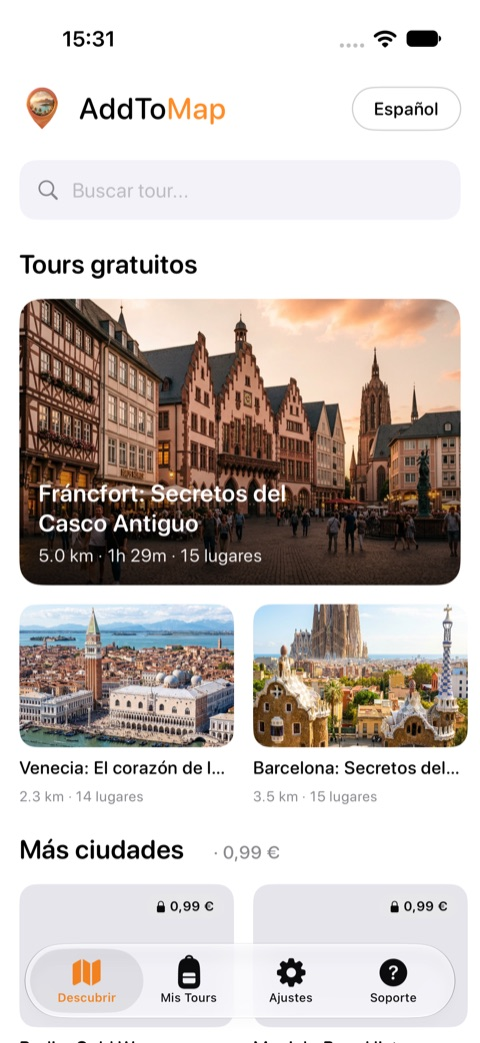
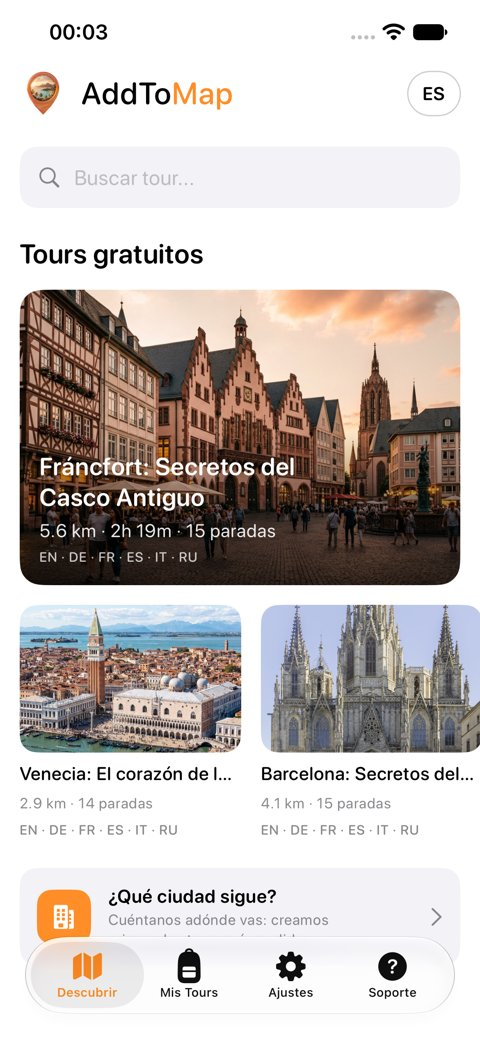
Per-tour pages /t/<slug> (OG previews, app hand-off), ?tour= deep link, honest pricing copy, real tour numbers, Cathedral cover, fresh localized screenshots, Impressum, sitemap/robots

diff --git a/index.html b/index.html
@@ -4,12 +4,12 @@
 <meta charset="UTF-8">
 <meta name="viewport" content="width=device-width, initial-scale=1">
 <title>AddToMap — Offline Audio Walking Tours</title>
-<meta name="description" content="Self-guided offline audio walking tours. Pick a city, follow the route on the map, and hear its stories as you walk. From 0.99 €, no subscription.">
+<meta name="description" content="Self-guided offline audio walking tours. Pick a city, follow the route on the map, and hear its stories as you walk. Free tours to start, more cities as one-time purchases, no subscription.">
 <meta property="og:title" content="AddToMap — Offline Audio Walking Tours">
 <meta property="og:description" content="Explore cities at your own pace with self-guided audio tours that work fully offline.">
 <meta property="og:image" content="https://addtomap.co/img/frankfurt.jpg">
 <meta property="og:type" content="website">
-<meta name="build" content="20261011161527"><!-- bumped by stamp.sh on every deploy -->
+<meta name="build" content="20261012220937"><!-- bumped by stamp.sh on every deploy -->
 <meta http-equiv="Cache-Control" content="no-cache">
 <style>
   :root{ --o:#F2770A; --ink:#15110d; --muted:#6b625a; --bg:#fff; --soft:#faf6f1; }
@@ -80,6 +80,7 @@
   footer .wrap{display:flex;flex-wrap:wrap;gap:16px;justify-content:space-between;align-items:center}
   footer a{color:var(--muted);margin-right:18px;font-weight:600}
   footer a:hover{color:var(--ink)}
+  .card.linked{outline:3px solid var(--o);outline-offset:3px;box-shadow:0 10px 30px #f2770a33}
 </style>
 </head>
 <body>
@@ -91,6 +92,7 @@
       <a href="#screens" data-i18n="nav_screens">In action</a>
       <a href="#why" data-i18n="nav_why">Why</a>
       <a href="/privacy.html" data-i18n="nav_privacy">Privacy</a>
+    <a href="/impressum.html">Impressum</a>
       <a class="supportmail" href="mailto:support@addtomap.co" data-i18n="nav_support">Support</a>
     </span>
     <select class="langsel" id="lang" onchange="setLang(this.value)" aria-label="Language">
@@ -103,7 +105,7 @@
 
 <div class="hero"><div class="wrap">
   <h1 data-i18n="hero_h1">Walk the city, hear its stories</h1>
-  <p data-i18n="hero_p">Pick a city, follow the route on the map, and hear its stories as you walk — fully offline. Lots of tours are free; others from 0.99 €, no subscription.</p>
+  <p data-i18n="hero_p">Pick a city, follow the route on the map, and hear its stories as you walk — fully offline. Free tours to start; more cities as one-time purchases, no subscription.</p>
   <a class="badge" href="#tours"><span>🎧</span><span><small data-i18n="badge_small">Soon on the</small>App Store</span></a>
   <div class="note" data-i18n="note">iPhone · works offline · 6 languages</div>
   <div class="herophones">
@@ -124,9 +126,9 @@
     </span>
   </div>
   <div class="tours">
-    <div class="card"><img src="img/frankfurt.jpg" alt="Frankfurt"><div class="b"><h3>Frankfurt: Old Town Secrets</h3><div class="meta">5.0 km · 15 <span data-i18n="stops">stops</span></div><div class="cardfoot"><span class="free" data-i18n="free_badge">FREE</span><button class="pvbtn" data-slug="frankfurt" onclick="togglePreview(this)"><span class="ic">▶</span><span class="lbl" data-i18n="preview_play">Preview</span></button></div></div></div>
-    <div class="card"><img src="img/venice.jpg" alt="Venice"><div class="b"><h3>Venice: Heart of the Serene Republic</h3><div class="meta">2.3 km · 14 <span data-i18n="stops">stops</span></div><div class="cardfoot"><span class="free" data-i18n="free_badge">FREE</span><button class="pvbtn" data-slug="venice-serene-republic" onclick="togglePreview(this)"><span class="ic">▶</span><span class="lbl" data-i18n="preview_play">Preview</span></button></div></div></div>
-    <div class="card"><img src="img/barcelona.jpg" alt="Barcelona"><div class="b"><h3>Barcelona: Gothic Quarter &amp; El Born</h3><div class="meta">3.5 km · 15 <span data-i18n="stops">stops</span></div><div class="cardfoot"><span class="free" data-i18n="free_badge">FREE</span><button class="pvbtn" data-slug="barcelona-gothic-quarter-el-born" onclick="togglePreview(this)"><span class="ic">▶</span><span class="lbl" data-i18n="preview_play">Preview</span></button></div></div></div>
+    <div class="card" id="tour-frankfurt" data-slug="frankfurt"><img src="img/frankfurt.jpg" alt="Frankfurt"><div class="b"><h3><a href="/t/frankfurt/">Frankfurt: Old Town Secrets</a></h3><div class="meta">5.6 km · 15 <span data-i18n="stops">stops</span></div><div class="cardfoot"><span class="free" data-i18n="free_badge">FREE</span><button class="pvbtn" data-slug="frankfurt" onclick="togglePreview(this)"><span class="ic">▶</span><span class="lbl" data-i18n="preview_play">Preview</span></button></div></div></div>
+    <div class="card" id="tour-venice-serene-republic" data-slug="venice-serene-republic"><img src="img/venice.jpg" alt="Venice"><div class="b"><h3><a href="/t/venice-serene-republic/">Venice: The Heart of the Serene Republic</a></h3><div class="meta">2.9 km · 14 <span data-i18n="stops">stops</span></div><div class="cardfoot"><span class="free" data-i18n="free_badge">FREE</span><button class="pvbtn" data-slug="venice-serene-republic" onclick="togglePreview(this)"><span class="ic">▶</span><span class="lbl" data-i18n="preview_play">Preview</span></button></div></div></div>
+    <div class="card" id="tour-barcelona-gothic-quarter-el-born" data-slug="barcelona-gothic-quarter-el-born"><img src="img/barcelona.jpg" alt="Barcelona"><div class="b"><h3><a href="/t/barcelona-gothic-quarter-el-born/">Barcelona: Secrets of the Gothic Quarter &amp; El Born</a></h3><div class="meta">4.1 km · 15 <span data-i18n="stops">stops</span></div><div class="cardfoot"><span class="free" data-i18n="free_badge">FREE</span><button class="pvbtn" data-slug="barcelona-gothic-quarter-el-born" onclick="togglePreview(this)"><span class="ic">▶</span><span class="lbl" data-i18n="preview_play">Preview</span></button></div></div></div>
   </div>
 </div></section>
 
@@ -146,9 +148,9 @@
   <div class="feat">
     <div><div class="ic">💡</div><h3 data-i18n="f1_t">Stories &amp; secrets</h3><p data-i18n="f1_d">Fascinating history and local secrets at every stop — curated, not generic.</p></div>
     <div><div class="ic">📶</div><h3 data-i18n="f2_t">Fully offline</h3><p data-i18n="f2_d">Download once, walk anywhere — no roaming, no signal needed.</p></div>
-    <div><div class="ic">☕</div><h3 data-i18n="f3_t">Price of a coffee</h3><p data-i18n="f3_d">Tours from 0.99 €. No subscription, no account.</p></div>
+    <div><div class="ic">☕</div><h3 data-i18n="f3_t">No subscription</h3><p data-i18n="f3_d">Free tours to start. New cities are one-time purchases you keep forever. No account.</p></div>
     <div><div class="ic">🚶</div><h3 data-i18n="f4_t">At your own pace</h3><p data-i18n="f4_d">No tour group, no schedule. Start, pause and resume whenever.</p></div>
-    <div><div class="ic">🎙</div><h3 data-i18n="f5_t">Your choice of voice</h3><p data-i18n="f5_d">Prefer a male or female guide? Switch anytime — every tour is narrated in both voices.</p></div>
+    <div><div class="ic">🎙</div><h3 data-i18n="f5_t">Your choice of voice</h3><p data-i18n="f5_d">Prefer a male or female guide? Switch anytime, where a tour offers both voices.</p></div>
   </div>
 </div></section>
 
@@ -181,12 +183,12 @@
 
 <script>
 const I18N = {
-  en:{nav_tours:"Tours",nav_screens:"In action",nav_why:"Why",nav_privacy:"Privacy",nav_support:"Support",hero_h1:"Walk the city, hear its stories",hero_p:"Pick a city, follow the route on the map, and hear its stories as you walk — fully offline. Lots of tours are free; others from 0.99 €, no subscription.",badge_small:"Soon on the",note:"iPhone · works offline · 6 languages",free_title:"Lots of free tours to start",free_sub:"Full, self-guided city walks — free right now, with new ones added regularly. Tap a tour to hear a free preview.",stops:"stops",free_badge:"FREE",why_title:"Why AddToMap",f1_t:"Stories & secrets",f1_d:"Fascinating history and local secrets at every stop — curated, not generic.",f2_t:"Fully offline",f2_d:"Download once, walk anywhere — no roaming, no signal needed.",f3_t:"Price of a coffee",f3_d:"Tours from 0.99 €. No subscription, no account.",f4_t:"At your own pace",f4_d:"No tour group, no schedule. Start, pause and resume whenever.",how_title:"How it works",s1_t:"Pick a city",s1_d:"Browse tours and listen to a free preview.",s2_t:"Download it",s2_d:"The whole tour saves to your phone for offline use.",s3_t:"Walk & listen",s3_d:"Follow the map; stories play as you reach each stop.",cta_title:"Coming soon to the App Store",cta_sub:"Follow us for the launch and new cities.",preview_play:"Preview",preview_playing:"Playing…",voice_label:"Guide voice:",voice_male:"Male",voice_female:"Female",f5_t:"Your choice of voice",f5_d:"Prefer a male or female guide? Switch anytime — every tour is narrated in both voices.",screens_title:"See it in action",screens_sub:"A quick look inside the app — browse tours, follow the map, and listen as you walk.",cap_tour:"Preview & start",cap_map:"Follow the map",cap_photo:"Stories at every stop",cap_voice:"Your choice of voice"},
-  de:{nav_tours:"Touren",nav_screens:"In Aktion",nav_why:"Warum",nav_privacy:"Datenschutz",nav_support:"Support",hero_h1:"Erkunde die Stadt, hör ihre Geschichten",hero_p:"Wähle eine Stadt, folge der Route auf der Karte und höre ihre Geschichten beim Gehen — komplett offline. Viele Touren sind gratis, weitere ab 0,99 €, kein Abo.",badge_small:"Bald im",note:"iPhone · offline · 6 Sprachen",free_title:"Viele kostenlose Touren zum Start",free_sub:"Komplette, selbstgeführte Stadtrundgänge — jetzt gratis, regelmäßig kommen neue dazu. Tippe auf eine Tour für eine kostenlose Vorschau.",stops:"Stopps",free_badge:"GRATIS",why_title:"Warum AddToMap",f1_t:"Geschichten & Geheimnisse",f1_d:"Spannende Geschichte und lokale Geheimnisse an jedem Stopp — kuratiert, nicht generisch.",f2_t:"Komplett offline",f2_d:"Einmal laden, überall gehen — kein Roaming, kein Signal nötig.",f3_t:"Preis eines Kaffees",f3_d:"Touren ab 0,99 €. Kein Abo, kein Konto.",f4_t:"In deinem Tempo",f4_d:"Keine Gruppe, kein Zeitplan. Starte, pausiere und mach weiter, wann du willst.",how_title:"So funktioniert's",s1_t:"Stadt wählen",s1_d:"Stöbere in Touren und hör dir eine kostenlose Vorschau an.",s2_t:"Herunterladen",s2_d:"Die ganze Tour wird für offline aufs Handy gespeichert.",s3_t:"Gehen & hören",s3_d:"Folge der Karte; Geschichten spielen an jedem Stopp.",cta_title:"Bald im App Store",cta_sub:"Folge uns für Launch und neue Städte.",preview_play:"Vorschau",preview_playing:"Läuft…",voice_label:"Guide-Stimme:",voice_male:"Männlich",voice_female:"Weiblich",f5_t:"Deine Wunschstimme",f5_d:"Männlicher oder weiblicher Guide? Jederzeit umschaltbar — jede Tour gibt es in beiden Stimmen.",screens_title:"So sieht's aus",screens_sub:"Ein kurzer Blick in die App — Touren entdecken, der Karte folgen und beim Gehen zuhören.",cap_tour:"Vorschau & Start",cap_map:"Der Karte folgen",cap_photo:"Geschichten an jedem Stopp",cap_voice:"Deine Wunschstimme"},
-  fr:{nav_tours:"Visites",nav_screens:"En action",nav_why:"Pourquoi",nav_privacy:"Confidentialité",nav_support:"Support",hero_h1:"Parcours la ville, écoute ses histoires",hero_p:"Choisis une ville, suis l'itinéraire sur la carte et écoute ses histoires en marchant — entièrement hors ligne. Beaucoup de visites sont gratuites, d'autres dès 0,99 €, sans abonnement.",badge_small:"Bientôt sur l'",note:"iPhone · hors ligne · 6 langues",free_title:"Plein de visites gratuites pour commencer",free_sub:"Des balades complètes en autonomie — gratuites dès maintenant, de nouvelles régulièrement. Touche une visite pour un aperçu gratuit.",stops:"arrêts",free_badge:"GRATUIT",why_title:"Pourquoi AddToMap",f1_t:"Histoires & secrets",f1_d:"Histoire fascinante et secrets locaux à chaque arrêt — sélectionnés, pas génériques.",f2_t:"100 % hors ligne",f2_d:"Télécharge une fois, marche partout — ni roaming ni réseau.",f3_t:"Prix d'un café",f3_d:"Visites dès 0,99 €. Sans abonnement, sans compte.",f4_t:"À ton rythme",f4_d:"Pas de groupe, pas d'horaire. Démarre, mets en pause, reprends quand tu veux.",how_title:"Comment ça marche",s1_t:"Choisis une ville",s1_d:"Parcours les visites et écoute un aperçu gratuit.",s2_t:"Télécharge-la",s2_d:"Toute la visite est enregistrée sur ton téléphone, hors ligne.",s3_t:"Marche & écoute",s3_d:"Suis la carte ; les récits se lancent à chaque arrêt.",cta_title:"Bientôt sur l'App Store",cta_sub:"Suis-nous pour le lancement et les nouvelles villes.",preview_play:"Aperçu",preview_playing:"Lecture…",voice_label:"Voix du guide :",voice_male:"Homme",voice_female:"Femme",f5_t:"La voix de ton choix",f5_d:"Guide masculin ou féminin ? Change quand tu veux — chaque visite existe dans les deux voix.",screens_title:"Un aperçu de l'app",screens_sub:"Un coup d'œil dans l'app — parcours les visites, suis la carte et écoute en marchant.",cap_tour:"Aperçu & départ",cap_map:"Suis la carte",cap_photo:"Des récits à chaque arrêt",cap_voice:"La voix de ton choix"},
-  es:{nav_tours:"Tours",nav_screens:"En acción",nav_why:"Por qué",nav_privacy:"Privacidad",nav_support:"Soporte",hero_h1:"Recorre la ciudad, escucha sus historias",hero_p:"Elige una ciudad, sigue la ruta en el mapa y escucha sus historias mientras caminas — totalmente sin conexión. Muchos tours son gratis; otros desde 0,99 €, sin suscripción.",badge_small:"Pronto en la",note:"iPhone · sin conexión · 6 idiomas",free_title:"Muchos tours gratis para empezar",free_sub:"Recorridos completos autoguiados — gratis ahora mismo, con novedades periódicas. Toca un tour para oír una vista previa gratis.",stops:"paradas",free_badge:"GRATIS",why_title:"Por qué AddToMap",f1_t:"Historias y secretos",f1_d:"Historia fascinante y secretos locales en cada parada — seleccionados, no genéricos.",f2_t:"Totalmente sin conexión",f2_d:"Descarga una vez, camina donde sea — sin roaming ni señal.",f3_t:"El precio de un café",f3_d:"Tours desde 0,99 €. Sin suscripción, sin cuenta.",f4_t:"A tu ritmo",f4_d:"Sin grupo, sin horarios. Empieza, pausa y sigue cuando quieras.",how_title:"Cómo funciona",s1_t:"Elige una ciudad",s1_d:"Explora los tours y escucha una vista previa gratis.",s2_t:"Descárgalo",s2_d:"El tour completo se guarda en tu teléfono para usarlo sin conexión.",s3_t:"Camina y escucha",s3_d:"Sigue el mapa; las historias suenan al llegar a cada parada.",cta_title:"Pronto en la App Store",cta_sub:"Síguenos para el lanzamiento y nuevas ciudades.",preview_play:"Vista previa",preview_playing:"Reproduciendo…",voice_label:"Voz del guía:",voice_male:"Masculina",voice_female:"Femenina",f5_t:"La voz que prefieras",f5_d:"¿Guía masculino o femenino? Cámbialo cuando quieras: cada tour está narrado en ambas voces.",screens_title:"Míralo en acción",screens_sub:"Un vistazo a la app — explora tours, sigue el mapa y escucha mientras caminas.",cap_tour:"Vista previa e inicio",cap_map:"Sigue el mapa",cap_photo:"Historias en cada parada",cap_voice:"La voz que prefieras"},
-  it:{nav_tours:"Tour",nav_screens:"In azione",nav_why:"Perché",nav_privacy:"Privacy",nav_support:"Supporto",hero_h1:"Esplora la città, ascolta le sue storie",hero_p:"Scegli una città, segui il percorso sulla mappa e ascolta le sue storie mentre cammini — completamente offline. Molti tour sono gratuiti, altri da 0,99 €, senza abbonamento.",badge_small:"Presto su",note:"iPhone · offline · 6 lingue",free_title:"Tanti tour gratuiti per iniziare",free_sub:"Percorsi cittadini completi e autoguidati — gratis ora, con novità regolari. Tocca un tour per ascoltare un'anteprima gratuita.",stops:"tappe",free_badge:"GRATIS",why_title:"Perché AddToMap",f1_t:"Storie e segreti",f1_d:"Storia affascinante e segreti locali a ogni tappa — selezionati, non generici.",f2_t:"Totalmente offline",f2_d:"Scarica una volta, cammina ovunque — niente roaming né segnale.",f3_t:"Il prezzo di un caffè",f3_d:"Tour da 0,99 €. Senza abbonamento, senza account.",f4_t:"Al tuo ritmo",f4_d:"Niente gruppo, niente orari. Avvia, metti in pausa e riprendi quando vuoi.",how_title:"Come funziona",s1_t:"Scegli una città",s1_d:"Sfoglia i tour e ascolta un'anteprima gratuita.",s2_t:"Scaricalo",s2_d:"L'intero tour si salva sul telefono per l'uso offline.",s3_t:"Cammina e ascolta",s3_d:"Segui la mappa; le storie partono a ogni tappa.",cta_title:"Presto sull'App Store",cta_sub:"Seguici per il lancio e le nuove città.",preview_play:"Anteprima",preview_playing:"In riproduzione…",voice_label:"Voce della guida:",voice_male:"Maschile",voice_female:"Femminile",f5_t:"La voce che preferisci",f5_d:"Guida maschile o femminile? Cambiala quando vuoi: ogni tour è narrato in entrambe le voci.",screens_title:"Guardala in azione",screens_sub:"Uno sguardo all'app — esplora i tour, segui la mappa e ascolta mentre cammini.",cap_tour:"Anteprima e avvio",cap_map:"Segui la mappa",cap_photo:"Storie a ogni tappa",cap_voice:"La voce che preferisci"},
-  ru:{nav_tours:"Туры",nav_screens:"В действии",nav_why:"Почему",nav_privacy:"Приватность",nav_support:"Поддержка",hero_h1:"Гуляй по городу — слушай его истории",hero_p:"Выбери город, иди по маршруту на карте и слушай истории на ходу — полностью офлайн. Много туров бесплатно, остальные от 0,99 €, без подписки.",badge_small:"Скоро в",note:"iPhone · офлайн · 6 языков",free_title:"Много бесплатных туров для старта",free_sub:"Полные самостоятельные маршруты — бесплатно прямо сейчас, новые добавляются регулярно. Нажми на тур, чтобы послушать бесплатное превью.",stops:"точек",free_badge:"БЕСПЛАТНО",why_title:"Почему AddToMap",f1_t:"Истории и секреты",f1_d:"Увлекательная история и местные секреты на каждой точке — отобранные, не шаблонные.",f2_t:"Полностью офлайн",f2_d:"Скачай один раз — иди где угодно, без роуминга и сети.",f3_t:"Цена чашки кофе",f3_d:"Туры от 0,99 €. Без подписки и аккаунта.",f4_t:"В своём темпе",f4_d:"Без группы и расписания. Старт, пауза и продолжение — когда хочешь.",how_title:"Как это работает",s1_t:"Выбери город",s1_d:"Смотри туры и слушай бесплатное превью.",s2_t:"Скачай",s2_d:"Весь тур сохраняется на телефон для офлайна.",s3_t:"Иди и слушай",s3_d:"Следуй карте; истории включаются на каждой точке.",cta_title:"Скоро в App Store",cta_sub:"Подпишись — расскажем о запуске и новых городах.",preview_play:"Превью",preview_playing:"Играет…",voice_label:"Голос гида:",voice_male:"Мужской",voice_female:"Женский",f5_t:"Голос на выбор",f5_d:"Мужской или женский гид? Переключай в любой момент — каждый тур озвучен обоими голосами.",screens_title:"Как это выглядит",screens_sub:"Загляни внутрь приложения — выбирай туры, следуй карте и слушай на ходу.",cap_tour:"Превью и старт",cap_map:"Следуй карте",cap_photo:"Истории на каждой точке",cap_voice:"Голос на выбор"}
+  en:{nav_tours:"Tours",nav_screens:"In action",nav_why:"Why",nav_privacy:"Privacy",nav_support:"Support",hero_h1:"Walk the city, hear its stories",hero_p:"Pick a city, follow the route on the map, and hear its stories as you walk — fully offline. Free tours to start; more cities as one-time purchases, no subscription.",badge_small:"Soon on the",note:"iPhone · works offline · 6 languages",free_title:"Lots of free tours to start",free_sub:"Full, self-guided city walks — free right now, with new ones added regularly. Tap a tour to hear a free preview.",stops:"stops",free_badge:"FREE",why_title:"Why AddToMap",f1_t:"Stories & secrets",f1_d:"Fascinating history and local secrets at every stop — curated, not generic.",f2_t:"Fully offline",f2_d:"Download once, walk anywhere — no roaming, no signal needed.",f3_t:"No subscription",f3_d:"Free tours to start. New cities are one-time purchases you keep forever. No account.",f4_t:"At your own pace",f4_d:"No tour group, no schedule. Start, pause and resume whenever.",how_title:"How it works",s1_t:"Pick a city",s1_d:"Browse tours and listen to a free preview.",s2_t:"Download it",s2_d:"The whole tour saves to your phone for offline use.",s3_t:"Walk & listen",s3_d:"Follow the map; stories play as you reach each stop.",cta_title:"Coming soon to the App Store",cta_sub:"Follow us for the launch and new cities.",preview_play:"Preview",preview_playing:"Playing…",voice_label:"Guide voice:",voice_male:"Male",voice_female:"Female",f5_t:"Your choice of voice",f5_d:"Prefer a male or female guide? Switch anytime, where a tour offers both voices.",screens_title:"See it in action",screens_sub:"A quick look inside the app — browse tours, follow the map, and listen as you walk.",cap_tour:"Preview & start",cap_map:"Follow the map",cap_photo:"Stories at every stop",cap_voice:"Your choice of voice"},
+  de:{nav_tours:"Touren",nav_screens:"In Aktion",nav_why:"Warum",nav_privacy:"Datenschutz",nav_support:"Support",hero_h1:"Erkunde die Stadt, hör ihre Geschichten",hero_p:"Wähle eine Stadt, folge der Route auf der Karte und höre ihre Geschichten beim Gehen — komplett offline. Kostenlose Touren zum Start, weitere Städte als Einmalkauf, kein Abo.",badge_small:"Bald im",note:"iPhone · offline · 6 Sprachen",free_title:"Viele kostenlose Touren zum Start",free_sub:"Komplette, selbstgeführte Stadtrundgänge — jetzt gratis, regelmäßig kommen neue dazu. Tippe auf eine Tour für eine kostenlose Vorschau.",stops:"Stopps",free_badge:"GRATIS",why_title:"Warum AddToMap",f1_t:"Geschichten & Geheimnisse",f1_d:"Spannende Geschichte und lokale Geheimnisse an jedem Stopp — kuratiert, nicht generisch.",f2_t:"Komplett offline",f2_d:"Einmal laden, überall gehen — kein Roaming, kein Signal nötig.",f3_t:"Kein Abo",f3_d:"Kostenlose Touren zum Start. Neue Städte kaufst du einmal und behältst sie für immer. Kein Konto.",f4_t:"In deinem Tempo",f4_d:"Keine Gruppe, kein Zeitplan. Starte, pausiere und mach weiter, wann du willst.",how_title:"So funktioniert's",s1_t:"Stadt wählen",s1_d:"Stöbere in Touren und hör dir eine kostenlose Vorschau an.",s2_t:"Herunterladen",s2_d:"Die ganze Tour wird für offline aufs Handy gespeichert.",s3_t:"Gehen & hören",s3_d:"Folge der Karte; Geschichten spielen an jedem Stopp.",cta_title:"Bald im App Store",cta_sub:"Folge uns für Launch und neue Städte.",preview_play:"Vorschau",preview_playing:"Läuft…",voice_label:"Guide-Stimme:",voice_male:"Männlich",voice_female:"Weiblich",f5_t:"Deine Wunschstimme",f5_d:"Männlicher oder weiblicher Guide? Jederzeit umschaltbar, wo eine Tour beide Stimmen hat.",screens_title:"So sieht's aus",screens_sub:"Ein kurzer Blick in die App — Touren entdecken, der Karte folgen und beim Gehen zuhören.",cap_tour:"Vorschau & Start",cap_map:"Der Karte folgen",cap_photo:"Geschichten an jedem Stopp",cap_voice:"Deine Wunschstimme"},
+  fr:{nav_tours:"Visites",nav_screens:"En action",nav_why:"Pourquoi",nav_privacy:"Confidentialité",nav_support:"Support",hero_h1:"Parcours la ville, écoute ses histoires",hero_p:"Choisis une ville, suis l'itinéraire sur la carte et écoute ses histoires en marchant — entièrement hors ligne. Des visites gratuites pour commencer, d'autres villes en achat unique, sans abonnement.",badge_small:"Bientôt sur l'",note:"iPhone · hors ligne · 6 langues",free_title:"Plein de visites gratuites pour commencer",free_sub:"Des balades complètes en autonomie — gratuites dès maintenant, de nouvelles régulièrement. Touche une visite pour un aperçu gratuit.",stops:"arrêts",free_badge:"GRATUIT",why_title:"Pourquoi AddToMap",f1_t:"Histoires & secrets",f1_d:"Histoire fascinante et secrets locaux à chaque arrêt — sélectionnés, pas génériques.",f2_t:"100 % hors ligne",f2_d:"Télécharge une fois, marche partout — ni roaming ni réseau.",f3_t:"Sans abonnement",f3_d:"Des visites gratuites pour commencer. Les nouvelles villes s'achètent une fois et restent à toi. Sans compte.",f4_t:"À ton rythme",f4_d:"Pas de groupe, pas d'horaire. Démarre, mets en pause, reprends quand tu veux.",how_title:"Comment ça marche",s1_t:"Choisis une ville",s1_d:"Parcours les visites et écoute un aperçu gratuit.",s2_t:"Télécharge-la",s2_d:"Toute la visite est enregistrée sur ton téléphone, hors ligne.",s3_t:"Marche & écoute",s3_d:"Suis la carte ; les récits se lancent à chaque arrêt.",cta_title:"Bientôt sur l'App Store",cta_sub:"Suis-nous pour le lancement et les nouvelles villes.",preview_play:"Aperçu",preview_playing:"Lecture…",voice_label:"Voix du guide :",voice_male:"Homme",voice_female:"Femme",f5_t:"La voix de ton choix",f5_d:"Guide masculin ou féminin ? Change quand tu veux, lorsque la visite propose les deux voix.",screens_title:"Un aperçu de l'app",screens_sub:"Un coup d'œil dans l'app — parcours les visites, suis la carte et écoute en marchant.",cap_tour:"Aperçu & départ",cap_map:"Suis la carte",cap_photo:"Des récits à chaque arrêt",cap_voice:"La voix de ton choix"},
+  es:{nav_tours:"Tours",nav_screens:"En acción",nav_why:"Por qué",nav_privacy:"Privacidad",nav_support:"Soporte",hero_h1:"Recorre la ciudad, escucha sus historias",hero_p:"Elige una ciudad, sigue la ruta en el mapa y escucha sus historias mientras caminas — totalmente sin conexión. Tours gratis para empezar; más ciudades como compra única, sin suscripción.",badge_small:"Pronto en la",note:"iPhone · sin conexión · 6 idiomas",free_title:"Muchos tours gratis para empezar",free_sub:"Recorridos completos autoguiados — gratis ahora mismo, con novedades periódicas. Toca un tour para oír una vista previa gratis.",stops:"paradas",free_badge:"GRATIS",why_title:"Por qué AddToMap",f1_t:"Historias y secretos",f1_d:"Historia fascinante y secretos locales en cada parada — seleccionados, no genéricos.",f2_t:"Totalmente sin conexión",f2_d:"Descarga una vez, camina donde sea — sin roaming ni señal.",f3_t:"Sin suscripción",f3_d:"Tours gratis para empezar. Las ciudades nuevas se compran una vez y son tuyas para siempre. Sin cuenta.",f4_t:"A tu ritmo",f4_d:"Sin grupo, sin horarios. Empieza, pausa y sigue cuando quieras.",how_title:"Cómo funciona",s1_t:"Elige una ciudad",s1_d:"Explora los tours y escucha una vista previa gratis.",s2_t:"Descárgalo",s2_d:"El tour completo se guarda en tu teléfono para usarlo sin conexión.",s3_t:"Camina y escucha",s3_d:"Sigue el mapa; las historias suenan al llegar a cada parada.",cta_title:"Pronto en la App Store",cta_sub:"Síguenos para el lanzamiento y nuevas ciudades.",preview_play:"Vista previa",preview_playing:"Reproduciendo…",voice_label:"Voz del guía:",voice_male:"Masculina",voice_female:"Femenina",f5_t:"La voz que prefieras",f5_d:"¿Guía masculino o femenino? Cámbialo cuando quieras, en los tours que ofrecen ambas voces.",screens_title:"Míralo en acción",screens_sub:"Un vistazo a la app — explora tours, sigue el mapa y escucha mientras caminas.",cap_tour:"Vista previa e inicio",cap_map:"Sigue el mapa",cap_photo:"Historias en cada parada",cap_voice:"La voz que prefieras"},
+  it:{nav_tours:"Tour",nav_screens:"In azione",nav_why:"Perché",nav_privacy:"Privacy",nav_support:"Supporto",hero_h1:"Esplora la città, ascolta le sue storie",hero_p:"Scegli una città, segui il percorso sulla mappa e ascolta le sue storie mentre cammini — completamente offline. Tour gratuiti per iniziare, altre città con acquisto singolo, senza abbonamento.",badge_small:"Presto su",note:"iPhone · offline · 6 lingue",free_title:"Tanti tour gratuiti per iniziare",free_sub:"Percorsi cittadini completi e autoguidati — gratis ora, con novità regolari. Tocca un tour per ascoltare un'anteprima gratuita.",stops:"tappe",free_badge:"GRATIS",why_title:"Perché AddToMap",f1_t:"Storie e segreti",f1_d:"Storia affascinante e segreti locali a ogni tappa — selezionati, non generici.",f2_t:"Totalmente offline",f2_d:"Scarica una volta, cammina ovunque — niente roaming né segnale.",f3_t:"Senza abbonamento",f3_d:"Tour gratuiti per iniziare. Le nuove città si comprano una volta e restano tue. Senza account.",f4_t:"Al tuo ritmo",f4_d:"Niente gruppo, niente orari. Avvia, metti in pausa e riprendi quando vuoi.",how_title:"Come funziona",s1_t:"Scegli una città",s1_d:"Sfoglia i tour e ascolta un'anteprima gratuita.",s2_t:"Scaricalo",s2_d:"L'intero tour si salva sul telefono per l'uso offline.",s3_t:"Cammina e ascolta",s3_d:"Segui la mappa; le storie partono a ogni tappa.",cta_title:"Presto sull'App Store",cta_sub:"Seguici per il lancio e le nuove città.",preview_play:"Anteprima",preview_playing:"In riproduzione…",voice_label:"Voce della guida:",voice_male:"Maschile",voice_female:"Femminile",f5_t:"La voce che preferisci",f5_d:"Guida maschile o femminile? Cambiala quando vuoi, nei tour che offrono entrambe le voci.",screens_title:"Guardala in azione",screens_sub:"Uno sguardo all'app — esplora i tour, segui la mappa e ascolta mentre cammini.",cap_tour:"Anteprima e avvio",cap_map:"Segui la mappa",cap_photo:"Storie a ogni tappa",cap_voice:"La voce che preferisci"},
+  ru:{nav_tours:"Туры",nav_screens:"В действии",nav_why:"Почему",nav_privacy:"Приватность",nav_support:"Поддержка",hero_h1:"Гуляй по городу — слушай его истории",hero_p:"Выбери город, иди по маршруту на карте и слушай истории на ходу — полностью офлайн. Бесплатные туры для старта, остальные города покупаются один раз, без подписки.",badge_small:"Скоро в",note:"iPhone · офлайн · 6 языков",free_title:"Много бесплатных туров для старта",free_sub:"Полные самостоятельные маршруты — бесплатно прямо сейчас, новые добавляются регулярно. Нажми на тур, чтобы послушать бесплатное превью.",stops:"точек",free_badge:"БЕСПЛАТНО",why_title:"Почему AddToMap",f1_t:"Истории и секреты",f1_d:"Увлекательная история и местные секреты на каждой точке — отобранные, не шаблонные.",f2_t:"Полностью офлайн",f2_d:"Скачай один раз — иди где угодно, без роуминга и сети.",f3_t:"Без подписки",f3_d:"Бесплатные туры для старта. Новые города покупаются один раз и остаются навсегда. Без аккаунта.",f4_t:"В своём темпе",f4_d:"Без группы и расписания. Старт, пауза и продолжение — когда хочешь.",how_title:"Как это работает",s1_t:"Выбери город",s1_d:"Смотри туры и слушай бесплатное превью.",s2_t:"Скачай",s2_d:"Весь тур сохраняется на телефон для офлайна.",s3_t:"Иди и слушай",s3_d:"Следуй карте; истории включаются на каждой точке.",cta_title:"Скоро в App Store",cta_sub:"Подпишись — расскажем о запуске и новых городах.",preview_play:"Превью",preview_playing:"Играет…",voice_label:"Голос гида:",voice_male:"Мужской",voice_female:"Женский",f5_t:"Голос на выбор",f5_d:"Мужской или женский гид? Переключай в любой момент там, где у тура есть оба голоса.",screens_title:"Как это выглядит",screens_sub:"Загляни внутрь приложения — выбирай туры, следуй карте и слушай на ходу.",cap_tour:"Превью и старт",cap_map:"Следуй карте",cap_photo:"Истории на каждой точке",cap_voice:"Голос на выбор"}
 };
 // ---- Tour preview playback (language- + voice-aware) ----
 var previewVoice = (localStorage.getItem("pv")==="f") ? "f" : "m";
@@ -263,6 +265,20 @@ function setLang(l){
 }
 setLang(localStorage.getItem("lang") || ((navigator.language||"en").slice(0,2)));
 
+// ---- Deep link: /?tour=<slug> (shared from the app, or a /t/<slug> page) ----
+// Scrolls to that tour's card and highlights it; on an iPhone with the app installed the
+// addtomap:// scheme opens the tour directly (Universal Links take over once the AASA file is up).
+(function(){
+  var slug=new URLSearchParams(location.search).get("tour"); if(!slug) return;
+  var card=document.querySelector('.card[data-slug="'+slug.replace(/[^a-z0-9-]/g,"")+'"]'); if(!card) return;
+  card.classList.add("linked");
+  setTimeout(function(){ card.scrollIntoView({behavior:"smooth",block:"center"}); },150);
+  if(/iPhone|iPad|iPod/.test(navigator.userAgent) && !sessionStorage.getItem("appTried_"+slug)){
+    sessionStorage.setItem("appTried_"+slug,"1");
+    setTimeout(function(){ location.href="addtomap://tour/"+slug; },400);
+  }
+})();
+
 // ---- Auto-refresh when a new version is deployed ----
 // GitHub Pages serves this HTML with Cache-Control: max-age=600 and no asset
 // versioning, so a mobile browser can keep showing a stale copy. We compare the
@@ -277,12 +293,16 @@ setLang(localStorage.getItem("lang") || ((navigator.language||"en").slice(0,2)))
       .then(function(v){
         if(!v) return; v=v.trim();
         if(v && v!==BUILD && location.search.indexOf("v="+v)===-1){
-          location.replace(location.pathname+"?v="+encodeURIComponent(v)+location.hash);
+          var q=new URLSearchParams(location.search); q.set("v",v);
+          location.replace(location.pathname+"?"+q.toString()+location.hash);
         }
       }).catch(function(){});
   }
   // tidy the cache-busting query out of the address bar after a fresh load
-  if(location.search.indexOf("v=")>-1){ try{ history.replaceState(null,"",location.pathname+location.hash); }catch(e){} }
+  if(location.search.indexOf("v=")>-1){ try{
+    var q2=new URLSearchParams(location.search); q2.delete("v"); var rest=q2.toString();
+    history.replaceState(null,"",location.pathname+(rest?"?"+rest:"")+location.hash);
+  }catch(e){} }
   check();
   window.addEventListener("pageshow",function(e){ if(e.persisted) check(); }); // bfcache / back-nav
 })();

diff --git a/t/barcelona-gothic-quarter-el-born/index.html b/t/barcelona-gothic-quarter-el-born/index.html
@@ -1,0 +1,58 @@
+<!DOCTYPE html>
+<html lang="en">
+<head>
+<meta charset="UTF-8">
+<meta name="viewport" content="width=device-width, initial-scale=1">
+<title>Barcelona: Secrets of the Gothic Quarter & El Born — AddToMap</title>
+<meta name="description" content="15 stops, 4.1 km. Roman ruins, the Cathedral, the Bishop's Bridge, Santa Maria del Mar and the Born, ending in Parc de la Ciutadella. A self-guided audio walk that works offline.">
+<meta property="og:title" content="Barcelona: Secrets of the Gothic Quarter & El Born">
+<meta property="og:description" content="15 stops, 4.1 km. Roman ruins, the Cathedral, the Bishop's Bridge, Santa Maria del Mar and the Born, ending in Parc de la Ciutadella. A self-guided audio walk that works offline.">
+<meta property="og:image" content="https://addtomap.co/img/barcelona.jpg">
+<meta property="og:image:width" content="1200">
+<meta property="og:image:height" content="800">
+<meta property="og:url" content="https://addtomap.co/t/barcelona-gothic-quarter-el-born">
+<meta property="og:type" content="website">
+<meta property="og:site_name" content="AddToMap">
+<meta name="twitter:card" content="summary_large_image">
+<meta name="twitter:title" content="Barcelona: Secrets of the Gothic Quarter & El Born">
+<meta name="twitter:description" content="15 stops, 4.1 km. Roman ruins, the Cathedral, the Bishop's Bridge, Santa Maria del Mar and the Born, ending in Parc de la Ciutadella. A self-guided audio walk that works offline.">
+<meta name="twitter:image" content="https://addtomap.co/img/barcelona.jpg">
+<link rel="canonical" href="https://addtomap.co/t/barcelona-gothic-quarter-el-born">
+<style>
+  :root{--o:#F2770A;--ink:#15110d;--muted:#6b625a}
+  *{box-sizing:border-box;margin:0;padding:0}
+  body{font-family:ui-rounded,-apple-system,"SF Pro Rounded",system-ui,"Segoe UI",Roboto,sans-serif;color:var(--ink);background:#fff;line-height:1.5;-webkit-font-smoothing:antialiased}
+  .wrap{max-width:560px;margin:0 auto;padding:28px 20px 48px;text-align:center}
+  .brand{display:inline-flex;align-items:center;gap:8px;font-weight:700;font-size:18px;margin-bottom:18px}
+  .brand img{width:28px;height:28px} .brand b{color:var(--o)}
+  img.cover{width:100%;aspect-ratio:3/2;object-fit:cover;border-radius:18px;box-shadow:0 14px 40px #0002}
+  h1{font-size:26px;line-height:1.2;margin:18px 0 8px}
+  p{color:var(--muted);margin-bottom:22px}
+  .btn{display:block;background:var(--o);color:#fff;font-weight:700;font-size:17px;padding:15px 18px;border-radius:14px;text-decoration:none;margin-bottom:10px}
+  .btn.sec{background:#faf6f1;color:var(--ink)}
+  small{display:block;color:var(--muted);margin-top:14px;font-size:13px}
+</style>
+</head>
+<body>
+<div class="wrap">
+  <a class="brand" href="/"><img src="/img/logo.png" alt="">AddTo<b>Map</b></a>
+  <img class="cover" src="/img/barcelona.jpg" alt="Barcelona: Secrets of the Gothic Quarter & El Born">
+  <h1>Barcelona: Secrets of the Gothic Quarter & El Born</h1>
+  <p>15 stops, 4.1 km. Roman ruins, the Cathedral, the Bishop's Bridge, Santa Maria del Mar and the Born, ending in Parc de la Ciutadella. A self-guided audio walk that works offline.</p>
+  <a class="btn" id="open" href="addtomap://tour/barcelona-gothic-quarter-el-born">Open in the AddToMap app</a>
+  <a class="btn sec" href="/?tour=barcelona-gothic-quarter-el-born">Don't have the app yet? See the tour</a>
+  <small>Free, self-guided, works offline. iPhone.</small>
+</div>
+<script>
+// Shared from the app: on an iPhone try the app first, then fall back to the tour card on the main page.
+(function(){
+  var slug="barcelona-gothic-quarter-el-born";
+  if(/iPhone|iPad|iPod/.test(navigator.userAgent)){
+    var t=setTimeout(function(){ location.replace("/?tour="+slug); },1500);
+    window.addEventListener("pagehide",function(){ clearTimeout(t); });
+    location.href="addtomap://tour/"+slug;
+  }
+})();
+</script>
+</body>
+</html>

diff --git a/t/venice-serene-republic/index.html b/t/venice-serene-republic/index.html
@@ -1,0 +1,58 @@
+<!DOCTYPE html>
+<html lang="en">
+<head>
+<meta charset="UTF-8">
+<meta name="viewport" content="width=device-width, initial-scale=1">
+<title>Venice: The Heart of the Serene Republic — AddToMap</title>
+<meta name="description" content="14 stops, 2.9 km. From St. Mark's Square and the Doge's Palace through quiet campi and narrow lanes to the Rialto Bridge and its market. A self-guided audio walk that works offline.">
+<meta property="og:title" content="Venice: The Heart of the Serene Republic">
+<meta property="og:description" content="14 stops, 2.9 km. From St. Mark's Square and the Doge's Palace through quiet campi and narrow lanes to the Rialto Bridge and its market. A self-guided audio walk that works offline.">
+<meta property="og:image" content="https://addtomap.co/img/venice.jpg">
+<meta property="og:image:width" content="1200">
+<meta property="og:image:height" content="800">
+<meta property="og:url" content="https://addtomap.co/t/venice-serene-republic">
+<meta property="og:type" content="website">
+<meta property="og:site_name" content="AddToMap">
+<meta name="twitter:card" content="summary_large_image">
+<meta name="twitter:title" content="Venice: The Heart of the Serene Republic">
+<meta name="twitter:description" content="14 stops, 2.9 km. From St. Mark's Square and the Doge's Palace through quiet campi and narrow lanes to the Rialto Bridge and its market. A self-guided audio walk that works offline.">
+<meta name="twitter:image" content="https://addtomap.co/img/venice.jpg">
+<link rel="canonical" href="https://addtomap.co/t/venice-serene-republic">
+<style>
+  :root{--o:#F2770A;--ink:#15110d;--muted:#6b625a}
+  *{box-sizing:border-box;margin:0;padding:0}
+  body{font-family:ui-rounded,-apple-system,"SF Pro Rounded",system-ui,"Segoe UI",Roboto,sans-serif;color:var(--ink);background:#fff;line-height:1.5;-webkit-font-smoothing:antialiased}
+  .wrap{max-width:560px;margin:0 auto;padding:28px 20px 48px;text-align:center}
+  .brand{display:inline-flex;align-items:center;gap:8px;font-weight:700;font-size:18px;margin-bottom:18px}
+  .brand img{width:28px;height:28px} .brand b{color:var(--o)}
+  img.cover{width:100%;aspect-ratio:3/2;object-fit:cover;border-radius:18px;box-shadow:0 14px 40px #0002}
+  h1{font-size:26px;line-height:1.2;margin:18px 0 8px}
+  p{color:var(--muted);margin-bottom:22px}
+  .btn{display:block;background:var(--o);color:#fff;font-weight:700;font-size:17px;padding:15px 18px;border-radius:14px;text-decoration:none;margin-bottom:10px}
+  .btn.sec{background:#faf6f1;color:var(--ink)}
+  small{display:block;color:var(--muted);margin-top:14px;font-size:13px}
+</style>
+</head>
+<body>
+<div class="wrap">
+  <a class="brand" href="/"><img src="/img/logo.png" alt="">AddTo<b>Map</b></a>
+  <img class="cover" src="/img/venice.jpg" alt="Venice: The Heart of the Serene Republic">
+  <h1>Venice: The Heart of the Serene Republic</h1>
+  <p>14 stops, 2.9 km. From St. Mark's Square and the Doge's Palace through quiet campi and narrow lanes to the Rialto Bridge and its market. A self-guided audio walk that works offline.</p>
+  <a class="btn" id="open" href="addtomap://tour/venice-serene-republic">Open in the AddToMap app</a>
+  <a class="btn sec" href="/?tour=venice-serene-republic">Don't have the app yet? See the tour</a>
+  <small>Free, self-guided, works offline. iPhone.</small>
+</div>
+<script>
+// Shared from the app: on an iPhone try the app first, then fall back to the tour card on the main page.
+(function(){
+  var slug="venice-serene-republic";
+  if(/iPhone|iPad|iPod/.test(navigator.userAgent)){
+    var t=setTimeout(function(){ location.replace("/?tour="+slug); },1500);
+    window.addEventListener("pagehide",function(){ clearTimeout(t); });
+    location.href="addtomap://tour/"+slug;
+  }
+})();
+</script>
+</body>
+</html>

diff --git a/t/frankfurt/index.html b/t/frankfurt/index.html
@@ -1,0 +1,58 @@
+<!DOCTYPE html>
+<html lang="en">
+<head>
+<meta charset="UTF-8">
+<meta name="viewport" content="width=device-width, initial-scale=1">
+<title>Frankfurt: Old Town Secrets — AddToMap</title>
+<meta name="description" content="15 stops, 5.6 km. From the medieval town hall and the imperial cathedral to the skyscrapers and the old iron bridge over the Main. A self-guided audio walk that works offline.">
+<meta property="og:title" content="Frankfurt: Old Town Secrets">
+<meta property="og:description" content="15 stops, 5.6 km. From the medieval town hall and the imperial cathedral to the skyscrapers and the old iron bridge over the Main. A self-guided audio walk that works offline.">
+<meta property="og:image" content="https://addtomap.co/img/frankfurt.jpg">
+<meta property="og:image:width" content="1200">
+<meta property="og:image:height" content="800">
+<meta property="og:url" content="https://addtomap.co/t/frankfurt">
+<meta property="og:type" content="website">
+<meta property="og:site_name" content="AddToMap">
+<meta name="twitter:card" content="summary_large_image">
+<meta name="twitter:title" content="Frankfurt: Old Town Secrets">
+<meta name="twitter:description" content="15 stops, 5.6 km. From the medieval town hall and the imperial cathedral to the skyscrapers and the old iron bridge over the Main. A self-guided audio walk that works offline.">
+<meta name="twitter:image" content="https://addtomap.co/img/frankfurt.jpg">
+<link rel="canonical" href="https://addtomap.co/t/frankfurt">
+<style>
+  :root{--o:#F2770A;--ink:#15110d;--muted:#6b625a}
+  *{box-sizing:border-box;margin:0;padding:0}
+  body{font-family:ui-rounded,-apple-system,"SF Pro Rounded",system-ui,"Segoe UI",Roboto,sans-serif;color:var(--ink);background:#fff;line-height:1.5;-webkit-font-smoothing:antialiased}
+  .wrap{max-width:560px;margin:0 auto;padding:28px 20px 48px;text-align:center}
+  .brand{display:inline-flex;align-items:center;gap:8px;font-weight:700;font-size:18px;margin-bottom:18px}
+  .brand img{width:28px;height:28px} .brand b{color:var(--o)}
+  img.cover{width:100%;aspect-ratio:3/2;object-fit:cover;border-radius:18px;box-shadow:0 14px 40px #0002}
+  h1{font-size:26px;line-height:1.2;margin:18px 0 8px}
+  p{color:var(--muted);margin-bottom:22px}
+  .btn{display:block;background:var(--o);color:#fff;font-weight:700;font-size:17px;padding:15px 18px;border-radius:14px;text-decoration:none;margin-bottom:10px}
+  .btn.sec{background:#faf6f1;color:var(--ink)}
+  small{display:block;color:var(--muted);margin-top:14px;font-size:13px}
+</style>
+</head>
+<body>
+<div class="wrap">
+  <a class="brand" href="/"><img src="/img/logo.png" alt="">AddTo<b>Map</b></a>
+  <img class="cover" src="/img/frankfurt.jpg" alt="Frankfurt: Old Town Secrets">
+  <h1>Frankfurt: Old Town Secrets</h1>
+  <p>15 stops, 5.6 km. From the medieval town hall and the imperial cathedral to the skyscrapers and the old iron bridge over the Main. A self-guided audio walk that works offline.</p>
+  <a class="btn" id="open" href="addtomap://tour/frankfurt">Open in the AddToMap app</a>
+  <a class="btn sec" href="/?tour=frankfurt">Don't have the app yet? See the tour</a>
+  <small>Free, self-guided, works offline. iPhone.</small>
+</div>
+<script>
+// Shared from the app: on an iPhone try the app first, then fall back to the tour card on the main page.
+(function(){
+  var slug="frankfurt";
+  if(/iPhone|iPad|iPod/.test(navigator.userAgent)){
+    var t=setTimeout(function(){ location.replace("/?tour="+slug); },1500);
+    window.addEventListener("pagehide",function(){ clearTimeout(t); });
+    location.href="addtomap://tour/"+slug;
+  }
+})();
+</script>
+</body>
+</html>

diff --git a/impressum.html b/impressum.html
@@ -1,0 +1,32 @@
+<!DOCTYPE html>
+<html lang="de">
+<head>
+<meta charset="UTF-8">
+<meta name="viewport" content="width=device-width, initial-scale=1">
+<title>Impressum — AddToMap</title>
+<meta name="robots" content="noindex">
+<style>
+  body{font-family:ui-rounded,-apple-system,"SF Pro Rounded",system-ui,sans-serif;color:#15110d;max-width:640px;margin:0 auto;padding:32px 20px;line-height:1.6}
+  h1{font-size:28px;margin-bottom:16px} h2{font-size:18px;margin:22px 0 6px} a{color:#F2770A}
+  .todo{background:#fff4e5;border-left:4px solid #F2770A;padding:8px 12px;margin:12px 0}
+</style>
+</head>
+<body>
+<p><a href="/">← AddToMap</a></p>
+<h1>Impressum</h1>
+<p>Angaben gemäß § 5 DDG</p>
+<p>Anton Kushin<br>
+<span class="todo">[Straße und Hausnummer — bitte eintragen]</span><br>
+<span class="todo">[PLZ] Frankfurt am Main</span><br>
+Deutschland</p>
+<h2>Kontakt</h2>
+<p>E-Mail: <a href="mailto:support@addtomap.co">support@addtomap.co</a></p>
+<h2>Verantwortlich für den Inhalt nach § 18 Abs. 2 MStV</h2>
+<p>Anton Kushin, Anschrift wie oben.</p>
+<h2>Haftung für Inhalte</h2>
+<p>Die Inhalte dieser Seiten und der App wurden mit größter Sorgfalt erstellt. Für die Richtigkeit, Vollständigkeit und Aktualität der Inhalte kann jedoch keine Gewähr übernommen werden.</p>
+<h2>Bildnachweise</h2>
+<p>Fotos der Tourstationen stammen von Wikimedia Commons (CC0, CC BY, CC BY-SA) und Pexels; die Urheber sind in der App unter „Einstellungen → Bildnachweise“ genannt. Kartendaten © OpenStreetMap-Mitwirkende.</p>
+<p><a href="/privacy.html">Datenschutzerklärung</a></p>
+</body>
+</html>
